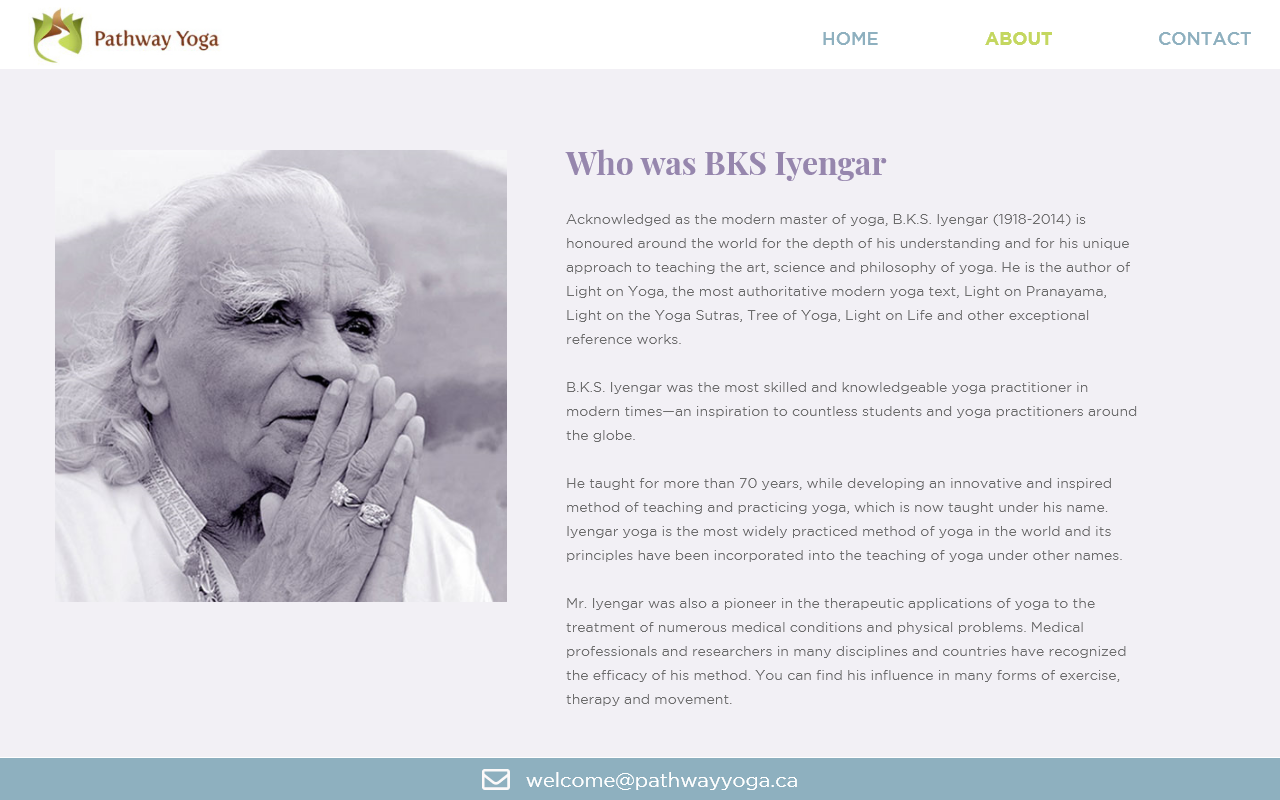
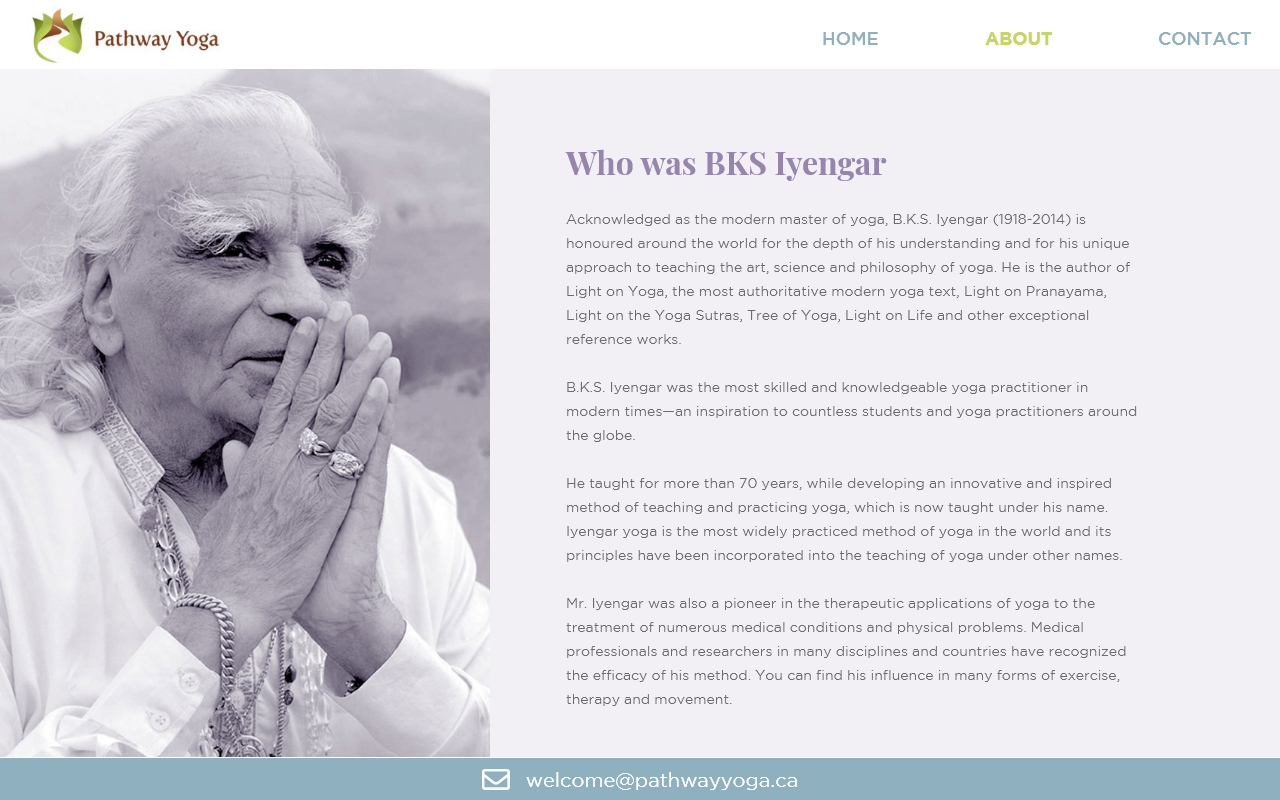
last changes

Changed region(s): [[0.0, 0.0625, 0.4062, 0.9688], [0.0, 0.75, 0.0938, 0.9375]]

diff --git a/about.html b/about.html
@@ -37,7 +37,18 @@
         </nav>
 
         <article class="about-grid">
+            <picture>
+            <!-- Square -->
+            <source srcset="images/Teacher-square.jpg"
+            media="(max-width:720px)" />
+
+            <!-- Landscape -->
+            <source srcset="images/Teacher-portrait.jpg"
+            media="(min-width:650px)" />
+
             <img class="teacher" src="images/Teacher-Iyengarb.jpg" alt="Yoga Teacher">
+            </picture>
+
                     <div class="about">
                         <h2>Who was BKS Iyengar</h2>
                         <p>

diff --git a/styles/styles.css b/styles/styles.css
@@ -328,9 +328,6 @@ nav li a{
 
 .teacher{
 	width:100%;
-	margin-left:40px;
-	margin-top:60px;
-	padding-bottom: 100px;
 }
 
 /******************************************************
